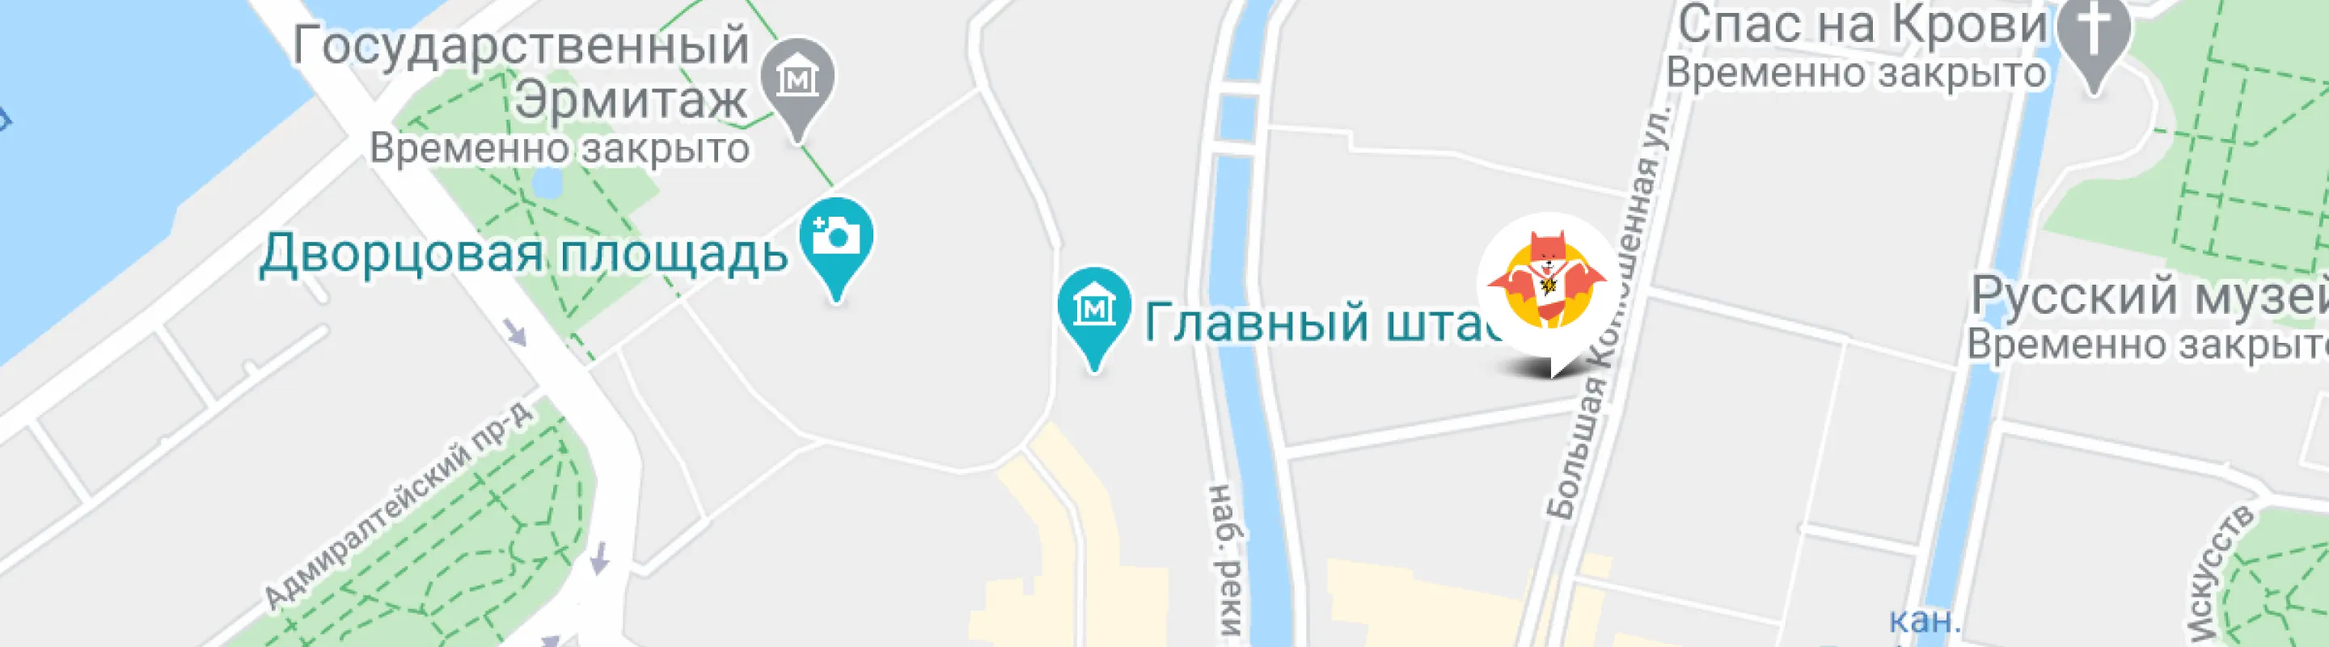
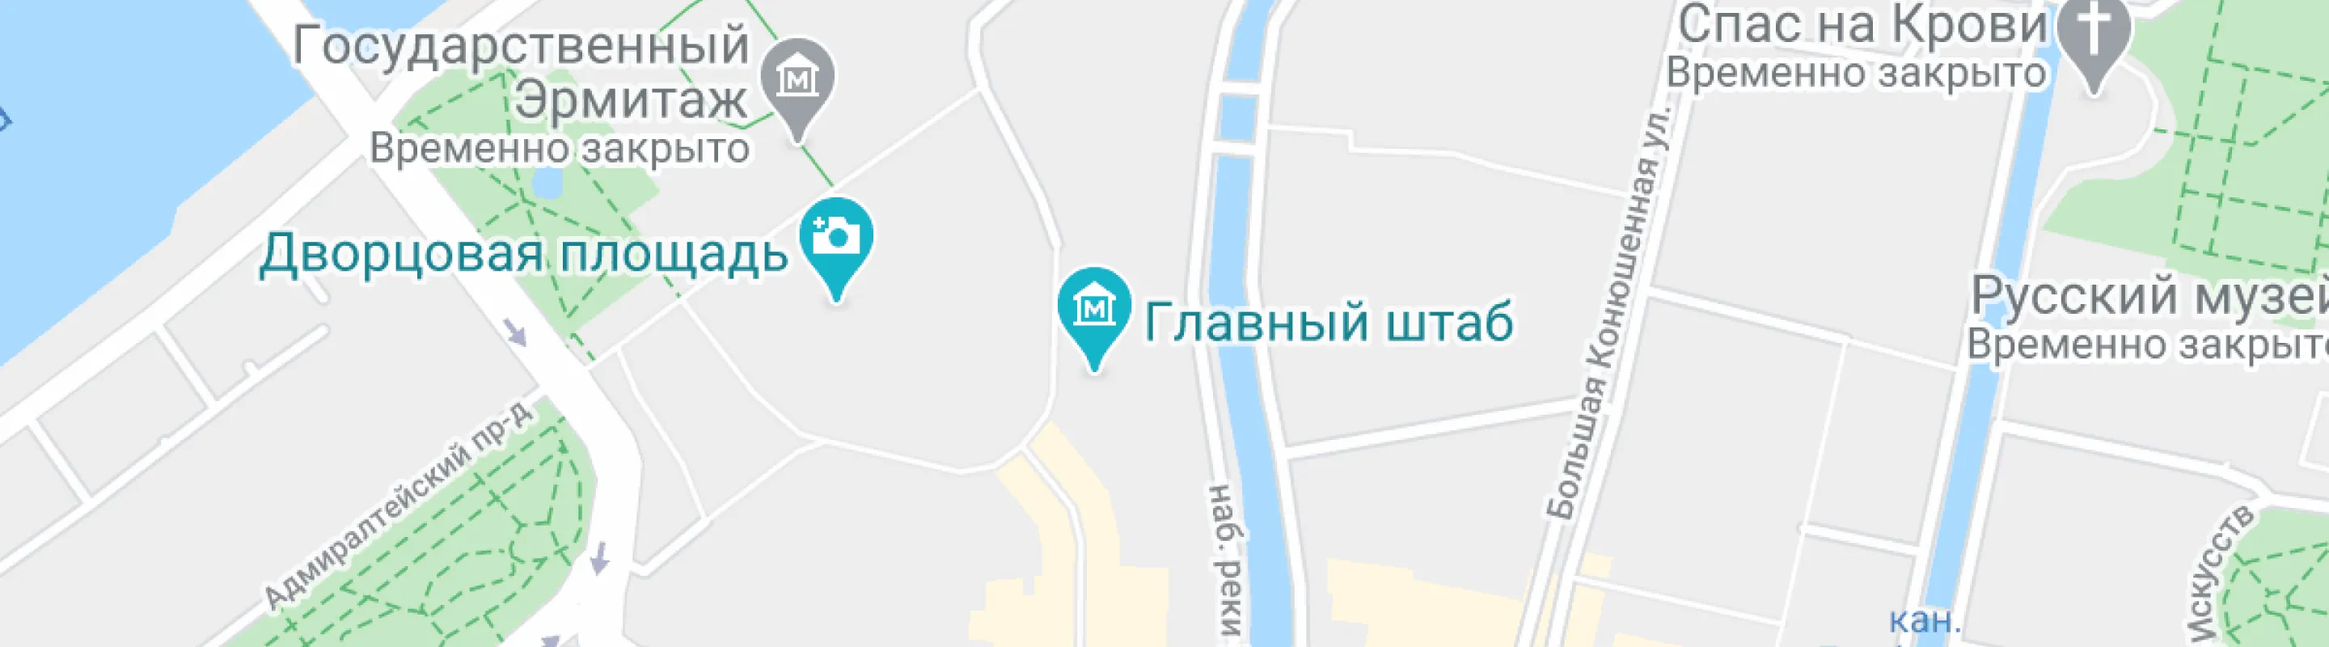
Улучшает производительность

Changed region(s): [[0.625, 0.3438, 0.7188, 0.5938]]

diff --git a/source/catalog.html b/source/catalog.html
@@ -5,6 +5,8 @@
   <meta charset="UTF-8">
   <title>CatEnergy. Функциональное питание для котов.</title>
   <meta name="viewport" content="width=device-width,initial-scale=1">
+  <link rel="preload" href="fonts/Lato-Regular.woff2" as="font" crossorigin="anonymous">
+  <link rel="preload" href="fonts/Oswald-Regular.woff2" as="font" crossorigin="anonymous">
   <link rel="stylesheet" href="styles/styles.css">
   <link rel="icon" href="favicon.ico">
   <link rel="icon" href="favicons/icon.svg" type="image/svg+xml">
@@ -16,7 +18,7 @@
 <body class="page-catalog__body body">
   <div class="body__wrapper">
     <header class="body__header body__header--catalog header">
-      <div class="header__logo-wrapper">
+      <div class="header__logo-wrapper header__logo-wrapper--catalog">
         <a class="header__logo header__logo--catalog logo logo--image" href="index.html">
           <picture>
             <source media="(min-width: 1440px)" width="70" height="59" type="image/svg+xml" srcset="images/logo-desktop.svg">
@@ -58,8 +60,11 @@
               <h2 class="card__title">
                 <a class="card__link" href="#">Cat Energy PRO 500 г</a>
               </h2>
-              <a class="card__image-link" href="#">
+              <a class="card__image-link" href="#" tabindex="-1">
                 <picture>
+                  <source media="(min-width: 1440px)" width="169" height="210" type="image/webp" srcset="images/catalog-chiken-500-desktop@1x.webp 1x, images/catalog-chiken-500-desktop@2x.webp 2x">
+                  <source media="(min-width: 768px)" width="161" height="172" type="image/webp" srcset="images/catalog-chiken-500-tablet@1x.webp 1x, images/catalog-chiken-500-tablet@2x.webp 2x">
+                  <source width="68" height="86" type="image/webp" srcset="images/catalog-chiken-500-mobile@1x.webp 1x, images/catalog-chiken-500-mobile@2x.webp 2x">
                   <source media="(min-width: 1440px)" width="169" height="210" type="image/png" srcset="images/catalog-chiken-500-desktop@1x.png 1x, images/catalog-chiken-500-desktop@2x.png 2x">
                   <source media="(min-width: 768px)" width="161" height="172" type="image/png" srcset="images/catalog-chiken-500-tablet@1x.png 1x, images/catalog-chiken-500-tablet@2x.png 2x">
                   <img class="card__image card__image--small" src="images/catalog-chiken-500-mobile@1x.png" srcset="images/catalog-chiken-500-mobile@2x.png" width="68" height="86" alt="Корм для котов со вкусом курицы 500 грамм">
@@ -85,8 +90,11 @@
               <h2 class="card__title">
                 <a class="card__link" href="#">Cat Energy PRO 1000 г</a>
               </h2>
-              <a class="card__image-link card__image-link--pro" href="#">
+              <a class="card__image-link card__image-link--pro" href="#" tabindex="-1">
                 <picture>
+                  <source media="(min-width: 1440px)" width="172" height="196" type="image/webp" srcset="images/catalog-chiken-1000-desktop@1x.webp 1x, images/catalog-chiken-1000-desktop@2x.webp 2x">
+                  <source media="(min-width: 768px)" width="168" height="206" type="image/webp" srcset="images/catalog-chiken-1000-tablet@1x.webp 1x, images/catalog-chiken-1000-tablet@2x.webp 2x">
+                  <source width="84" height="100" type="image/webp" srcset="images/catalog-chiken-1000-mobile@1x.webp 1x, images/catalog-chiken-1000-mobile@2x.webp 2x">
                   <source media="(min-width: 1440px)" width="172" height="196" type="image/png" srcset="images/catalog-chiken-1000-desktop@1x.png 1x, images/catalog-chiken-1000-desktop@2x.png 2x">
                   <source media="(min-width: 768px)" width="168" height="206" type="image/png" srcset="images/catalog-chiken-1000-tablet@1x.png 1x, images/catalog-chiken-1000-tablet@2x.png 2x">
                   <img class="card__image" src="images/catalog-chiken-1000-mobile@1x.png" srcset="images/catalog-chiken-1000-mobile@2x.png" width="84" height="100" alt="Корм для котов со вкусом курицы 1000 грамм">
@@ -112,8 +120,11 @@
               <h2 class="card__title">
                 <a class="card__link" href="#">Cat Energy PRO 500 г</a>
               </h2>
-              <a class="card__image-link" href="#">
+              <a class="card__image-link" href="#" tabindex="-1">
                 <picture>
+                  <source media="(min-width: 1440px)" width="169" height="210" type="image/webp" srcset="images/catalog-fish-500-desktop@1x.webp 1x, images/catalog-fish-500-desktop@2x.webp 2x">
+                  <source media="(min-width: 768px)" width="163" height="174" type="image/webp" srcset="images/catalog-fish-500-tablet@1x.webp 1x, images/catalog-fish-500-tablet@2x.webp 2x">
+                  <source width="68" height="86" type="image/webp" srcset="images/catalog-fish-500-mobile@1x.webp 1x, images/catalog-fish-500-mobile@2x.webp 2x">
                   <source media="(min-width: 1440px)" width="169" height="210" type="image/png" srcset="images/catalog-fish-500-desktop@1x.png 1x, images/catalog-fish-500-desktop@2x.png 2x">
                   <source media="(min-width: 768px)" width="163" height="174" type="image/png" srcset="images/catalog-fish-500-tablet@1x.png 1x, images/catalog-fish-500-tablet@2x.png 2x">
                   <img class="card__image card__image--small" src="images/catalog-fish-500-mobile@1x.png" srcset="images/catalog-fish-500-mobile@2x.png" width="68" height="86" alt="Корм для котов со вкусом рыбы 500 грамм">
@@ -139,8 +150,11 @@
               <h2 class="card__title">
                 <a class="card__link" href="#">Cat Energy PRO 1000 г</a>
               </h2>
-              <a class="card__image-link" href="#">
+              <a class="card__image-link" href="#" tabindex="-1">
                 <picture>
+                  <source media="(min-width: 1440px)" width="172" height="196" type="image/webp" srcset="images/catalog-fish-1000-desktop@1x.webp 1x, images/catalog-fish-1000-desktop@2x.webp 2x">
+                  <source media="(min-width: 768px)" width="168" height="206" type="image/webp" srcset="images/catalog-fish-1000-tablet@1x.webp 1x, images/catalog-fish-1000-tablet@2x.webp 2x">
+                  <source width="84" height="100" type="image/webp" srcset="images/catalog-fish-1000-mobile@1x.webp 1x, images/catalog-fish-1000-mobile@2x.webp 2x">
                   <source media="(min-width: 1440px)" width="172" height="196" type="image/png" srcset="images/catalog-fish-1000-desktop@1x.png 1x, images/catalog-fish-1000-desktop@2x.png 2x">
                   <source media="(min-width: 768px)" width="168" height="206" type="image/png" srcset="images/catalog-fish-1000-tablet@1x.png 1x, images/catalog-fish-1000-tablet@2x.png 2x">
                   <img class="card__image" src="images/catalog-fish-1000-mobile@1x.png" srcset="images/catalog-fish-1000-mobile@2x.png" width="84" height="100" alt="Корм для котов со вкусом рыбы 1000 грамм">
@@ -166,8 +180,11 @@
               <h2 class="card__title">
                 <a class="card__link" href="#">Cat Energy Slim 500 г</a>
               </h2>
-              <a class="card__image-link" href="#">
+              <a class="card__image-link" href="#" tabindex="-1">
                 <picture>
+                  <source media="(min-width: 1440px)" width="169" height="210" type="image/webp" srcset="images/catalog-buckwheat-500-desktop@1x.webp 1x, images/catalog-buckwheat-500-desktop@2x.webp 2x">
+                  <source media="(min-width: 768px)" width="161" height="171" type="image/webp" srcset="images/catalog-buckwheat-500-tablet@1x.webp 1x, images/catalog-buckwheat-500-tablet@2x.webp 2x">
+                  <source width="68" height="86" type="image/webp" srcset="images/catalog-buckwheat-500-mobile@1x.webp 1x, images/catalog-buckwheat-500-mobile@2x.webp 2x">
                   <source media="(min-width: 1440px)" width="169" height="210" type="image/png" srcset="images/catalog-buckwheat-500-desktop@1x.png 1x, images/catalog-buckwheat-500-desktop@2x.png 2x">
                   <source media="(min-width: 768px)" width="161" height="171" type="image/png" srcset="images/catalog-buckwheat-500-tablet@1x.png 1x, images/catalog-buckwheat-500-tablet@2x.png 2x">
                   <img class="card__image card__image--small" src="images/catalog-buckwheat-500-mobile@1x.png" srcset="images/catalog-buckwheat-500-mobile@2x.png" width="68" height="86" alt="Корм для котов со вкусом гречки 500 грамм">
@@ -193,8 +210,11 @@
               <h2 class="card__title">
                 <a class="card__link" href="#">Cat Energy Slim 1000 г</a>
               </h2>
-              <a class="card__image-link" href="#">
+              <a class="card__image-link" href="#" tabindex="-1">
                 <picture>
+                  <source media="(min-width: 1440px)" width="172" height="196" type="image/webp" srcset="images/catalog-buckwheat-1000-desktop@1x.webp 1x, images/catalog-buckwheat-1000-desktop@2x.webp 2x">
+                  <source media="(min-width: 768px)" width="168" height="206" type="image/webp" srcset="images/catalog-buckwheat-1000-tablet@1x.webp 1x, images/catalog-buckwheat-1000-tablet@2x.webp 2x">
+                  <source width="84" height="100" type="image/webp" srcset="images/catalog-buckwheat-1000-mobile@1x.webp 1x, images/catalog-buckwheat-1000-mobile@2x.webp 2x">
                   <source media="(min-width: 1440px)" width="172" height="196" type="image/png" srcset="images/catalog-buckwheat-1000-desktop@1x.png 1x, images/catalog-buckwheat-1000-desktop@2x.png 2x">
                   <source media="(min-width: 768px)" width="168" height="206" type="image/png" srcset="images/catalog-buckwheat-1000-tablet@1x.png 1x, images/catalog-buckwheat-1000-tablet@2x.png 2x">
                   <img class="card__image" src="images/catalog-buckwheat-1000-mobile@1x.png" srcset="images/catalog-buckwheat-1000-mobile@2x.png" width="84" height="100" alt="Корм для котов со вкусом гречки 1000 грамм">
@@ -220,8 +240,11 @@
               <h2 class="card__title">
                 <a class="card__link" href="#">Cat Energy Slim 500 г</a>
               </h2>
-              <a class="card__image-link" href="#">
+              <a class="card__image-link" href="#" tabindex="-1">
                 <picture>
+                  <source media="(min-width: 1440px)" width="169" height="210" type="image/webp" srcset="images/catalog-rice-500-desktop@1x.webp 1x, images/catalog-rice-500-desktop@2x.webp 2x">
+                  <source media="(min-width: 768px)" width="163" height="174" type="image/webp" srcset="images/catalog-rice-500-tablet@1x.webp 1x, images/catalog-rice-500-tablet@2x.webp 2x">
+                  <source width="68" height="86" type="image/webp" srcset="images/catalog-rice-500-mobile@1x.webp 1x, images/catalog-rice-500-mobile@2x.webp 2x">
                   <source media="(min-width: 1440px)" width="169" height="210" type="image/png" srcset="images/catalog-rice-500-desktop@1x.png 1x, images/catalog-rice-500-desktop@2x.png 2x">
                   <source media="(min-width: 768px)" width="163" height="174" type="image/png" srcset="images/catalog-rice-500-tablet@1x.png 1x, images/catalog-rice-500-tablet@2x.png 2x">
                   <img class="card__image card__image--small" src="images/catalog-rice-500-mobile@1x.png" srcset="images/catalog-rice-500-mobile@2x.png" width="68" height="86" alt="Корм для котов со вкусом риса 500 грамм">
@@ -244,7 +267,9 @@
               <button class="card__button button button--accent" type="submit">Заказать</button>
             </li>
             <li class="cards-list__item cards-list__item--more more-products">
-              <h3 class="more-products__title">Показать еще 100500 товаров</h3>
+              <h3 class="more-products__title">
+                <a class="more-products__title-link" href="#" tabindex="-1">Показать еще 100500 товаров</a>
+              </h3>
               <p class="more-products__description">На самом деле вкусов гораздо больше!</p>
               <a class="more-products__link button button--secondary" href="#">Показать все</a>
             </li>
@@ -342,6 +367,9 @@
         </div>
         <div class="contacts__map-wrapper">
           <picture>
+            <source media="(min-width: 1440px)" width="1440" height="400" type="image/webp" srcset="images/map-desktop@1x.webp 1x, images/map-desktop@2x.webp 2x">
+            <source media="(min-width: 768px)" width="768" height="400" type="image/webp" srcset="images/map-tablet@1x.webp 1x, images/map-tablet@2x.webp 2x">
+            <source width="320" height="362" type="image/webp" srcset="images/map-mobile@1x.webp 1x, images/map-mobile@2x.webp 2x">
             <source media="(min-width: 1440px)" width="1440" height="400" type="image/png" srcset="images/map-desktop@1x.png 1x, images/map-desktop@2x.png 2x">
             <source media="(min-width: 768px)" width="768" height="400" type="image/png" srcset="images/map-tablet@1x.png 1x, images/map-tablet@2x.png 2x">
             <img class="contacts__image" src="images/map-mobile@1x.png" srcset="images/map-mobile@2x.png" width="320" height="362" alt="Карта проезда к офису компании Кэт Энерджи">

diff --git a/source/index.html b/source/index.html
@@ -5,6 +5,8 @@
   <meta charset="UTF-8">
   <title>CatEnergy. Функциональное питание для котов.</title>
   <meta name="viewport" content="width=device-width,initial-scale=1">
+  <link rel="preload" href="fonts/Lato-Regular.woff2" as="font" crossorigin="anonymous">
+  <link rel="preload" href="fonts/Oswald-Regular.woff2" as="font" crossorigin="anonymous">
   <link rel="stylesheet" href="styles/styles.css">
   <link rel="icon" href="favicon.ico">
   <link rel="icon" href="favicons/icon.svg" type="image/svg+xml">
@@ -56,6 +58,9 @@
           <p class="promo__slogan">Занялся собой? Займись котом!</p>
           <div class="promo__picture">
             <picture>
+              <source media="(min-width: 1440px)" width="552" height="499" type="image/webp" srcset="images/index-hero-desktop@1x.webp 1x, images/index-hero-desktop@2x.webp 2x">
+              <source media="(min-width: 768px)" width="709" height="609" type="image/webp" srcset="images/index-hero-tablet@1x.webp 1x, images/index-hero-tablet@2x.webp 2x">
+              <source width="280" height="270" type="image/webp" srcset="images/index-hero-mobile@1x.webp 1x, images/index-hero-mobile@2x.webp 2x">
               <source media="(min-width: 1440px)" width="552" height="499" type="image/png" srcset="images/index-hero-desktop@1x.png 1x, images/index-hero-desktop@2x.png 2x">
               <source media="(min-width: 768px)" width="709" height="609" type="image/png" srcset="images/index-hero-tablet@1x.png 1x, images/index-hero-tablet@2x.png 2x">
               <img src="images/index-hero-mobile@1x.png" srcset="images/index-hero-mobile@2x.png 2x" width="280" height="270" alt="Корм для котов со вкусом курицы">
@@ -125,11 +130,17 @@
           <div class="example__slider-wrapper">
             <div class="example__image-wrapper">
               <picture>
+                <source media="(min-width: 1440px)" width="560" height="512" type="image/webp" srcset="images/catfat-desktop@1x.webp 1x, images/catfat-desktop@2x.webp 2x">
+                <source media="(min-width: 768px)" width="560" height="512" type="image/webp" srcset="images/catfat-tablet@1x.webp 1x, images/catfat-tablet@2x.webp 2x">
+                <source width="280" height="256" type="image/webp" srcset="images/catfat-mobile@1x.webp 1x, images/catfat-mobile@2x.webp 2x">
                 <source media="(min-width: 1440px)" width="560" height="512" type="image/png" srcset="images/catfat-desktop@1x.png 1x, images/catfat-desktop@2x.png 2x">
                 <source media="(min-width: 768px)" width="560" height="512" type="image/png" srcset="images/catfat-tablet@1x.png 1x, images/catfat-tablet@2x.png 2x">
                 <img class="example__image-fat" src="images/catfat-mobile@1x.png" srcset="images/catfat-mobile@2x.png" width="280" height="256" alt="Вид кота до употребления специального питания">
               </picture>
               <picture>
+                <source media="(min-width: 1440px)" width="560" height="512" type="image/webp" srcset="images/catthin-desctop@1x.webp, images/catthin-desctop@2x.webp 2x">
+                <source media="(min-width: 768px)" width="560" height="512" type="image/webp" srcset="images/catthin-tablet@1x.webp 1x, images/catthin-tablet@2x.webp 2x">
+                <source width="280" height="256" type="image/webp" srcset="images/catthin-mobile@1x.webp 1x, images/catthin-mobile@2x.webp 2x">
                 <source media="(min-width: 1440px)" width="560" height="512" type="image/png" srcset="images/catthin-desctop@1x.png 1x, images/catthin-desctop@2x.png 2x">
                 <source media="(min-width: 768px)" width="560" height="512" type="image/png" srcset="images/catthin-tablet@1x.png 1x, images/catthin-tablet@2x.png 2x">
                 <img class="example__image-thin" src="images/catthin-mobile@1x.png" srcset="images/catthin-mobile@2x.png" width="280" height="256" alt="Вид кота после употребления специального питания">
@@ -150,6 +161,9 @@
         </div>
         <div class="contacts__map-wrapper">
           <picture>
+            <source media="(min-width: 1440px)" width="1440" height="400" type="image/webp" srcset="images/map-desktop@1x.webp 1x, images/map-desktop@2x.webp 2x">
+            <source media="(min-width: 768px)" width="768" height="400" type="image/webp" srcset="images/map-tablet@1x.webp 1x, images/map-tablet@2x.webp 2x">
+            <source width="320" height="362" type="image/webp" srcset="images/map-mobile@1x.webp 1x, images/map-mobile@2x.webp 2x">
             <source media="(min-width: 1440px)" width="1440" height="400" type="image/png" srcset="images/map-desktop@1x.png 1x, images/map-desktop@2x.png 2x">
             <source media="(min-width: 768px)" width="768" height="400" type="image/png" srcset="images/map-tablet@1x.png 1x, images/map-tablet@2x.png 2x">
             <img class="contacts__image" src="images/map-mobile@1x.png" srcset="images/map-mobile@2x.png" width="320" height="362" alt="Карта проезда к офису компании Кэт Энерджи">
@@ -160,7 +174,7 @@
       </section>
     </main>
     <footer class="body__footer footer">
-      <div class="footer__wrapper">
+      <div class="footer__wrapper footer__wrapper--tablet">
         <a class="footer__logo-title logo" href="#">
           <img class="logo__description logo__description--footer" src="images/logo-text-mobile.svg" width="128" height="24" alt="Надпись Cat Energy">
         </a>

diff --git a/source/styles/blocks/main.scss b/source/styles/blocks/main.scss
@@ -29,7 +29,7 @@
     position: absolute;
     width: 57px;
     height: 53px;
-    background-image: url("../../images/map-pin@1x.png");
+    background-image: image-set("../images/map-pin@2x.webp" 2x type("image/webp"), "../images/map-pin@1x.webp" 1x type("image/webp"), "../images/map-pin@2x.png" 2x type("image/png"), "../images/map-pin@1x.png" 1x type("image/png"));
     background-repeat: no-repeat;
     background-position: 50% 50%;
     background-size: 57px 53px;
@@ -57,7 +57,7 @@
     &::after {
       width: 113px;
       height: 106px;
-      background-image: url("../../images/map-pin-tablet@1x.png");
+      background-image: image-set("../images/map-pin-tablet@2x.webp" 2x type("image/webp"), "../images/map-pin-tablet@1x.webp" 1x type("image/webp"), "../images/map-pin-tablet@2x.png" 2x type("image/png"), "../images/map-pin-tablet@1x.png" 1x type("image/png"));
       background-size: 113px 106px;
       bottom: 26%;
       left: 43.2%;

diff --git a/source/styles/blocks/header.scss b/source/styles/blocks/header.scss
@@ -8,18 +8,22 @@
 @media (max-width: 767px) {
   .header__logo-wrapper {
     padding-top: 12px;
+    padding-bottom: 3px;
+  }
+
+  .header__logo-wrapper--catalog {
     padding-bottom: 0;
   }
 
   .header__logo {
-    margin-top: 5px;
+    margin-top: 2px;
     margin-right: 56px;
     padding-bottom: 12px;
   }
 
   .header__logo-title {
-    margin-top: 5px;
-    margin-right: 65px;
+    margin-top: -3px;
+    margin-right: 66px;
     padding-bottom: 12px;
   }
 
@@ -28,6 +32,7 @@
   }
 
   .header__logo-title--catalog {
+    margin-top: 8px;
     margin-right: 66px;
   }
 }

diff --git a/source/styles/blocks/footer.scss b/source/styles/blocks/footer.scss
@@ -7,7 +7,7 @@
 .footer__logo-title {
   margin: 0;
   padding: 0;
-  padding-top: 30px;
+  padding-top: 41px;
   padding-bottom: 19px;
   display: flex;
   justify-content: center;
@@ -60,12 +60,17 @@
   .footer__wrapper {
     gap: 16.7%;
     margin: 0 auto;
-    padding: 55px 3.91%;
+    padding: 52px 3.91% 55px;
     align-items: center;
+  }
+
+  .footer__wrapper--tablet {
+    padding-top: 55px;
   }
 
   .footer__logo-title {
     margin: 0;
+    margin-top: -5px;
     margin-right: 35px;
     padding: 0;
   }

diff --git a/source/styles/blocks/card.scss b/source/styles/blocks/card.scss
@@ -16,6 +16,16 @@
   text-transform: uppercase;
   grid-column: 2 / 3;
   grid-row: 1 / 2;
+
+  &:hover,
+  &:focus,
+  &:focus-visible {
+    opacity: 0.6;
+  }
+
+  &:active {
+    opacity: 0.3;
+  }
 }
 
 .card__image-link {
@@ -108,6 +118,14 @@
     order: -1;
     padding: 0;
     align-self: center;
+
+    &:hover {
+      opacity: 0.8;
+    }
+
+    &:active {
+      opacity: 0.6;
+    }
   }
 
   .card__description {

diff --git a/source/styles/blocks/more-products.scss b/source/styles/blocks/more-products.scss
@@ -21,11 +21,24 @@
   align-self: center;
 }
 
-.more-products__link {
+.more-products__link,
+.more-products__title-link {
   text-align: center;
   text-decoration: none;
   color: var(--color-base, #fa8072);
   margin-top: 13px;
+}
+
+.more-products__title-link {
+  &:hover,
+  &:focus,
+  &:focus-visible {
+    opacity: 0.6;
+  }
+
+  &:active {
+    opacity: 0.3;
+  }
 }
 
 @media (min-width: 768px) {

diff --git a/source/styles/blocks/subscribe-form.scss b/source/styles/blocks/subscribe-form.scss
@@ -15,8 +15,9 @@
   line-height: 1.48;
   color: inherit;
   text-transform: uppercase;
-  margin-bottom: 22px;
+  margin-bottom: 18px;
   padding: 11px;
+  border: 1px solid #e7e7e7;
   box-sizing: border-box;
 
   &:hover {
@@ -32,6 +33,7 @@
   font-size: 20px;
   line-height: 1.3;
   width: 100%;
+  padding: 15px 26px;
 }
 
 @media (min-width: 768px) {

diff --git a/source/styles/blocks/button-burger.scss b/source/styles/blocks/button-burger.scss
@@ -3,7 +3,7 @@
   mask-repeat: no-repeat;
   mask-position: 50% 50%;
   cursor: pointer;
-  border: none;
+  border: transparent;
   width: 24px;
   height: 24px;
   padding: 0;

diff --git a/source/styles/blocks/main-navigation.scss b/source/styles/blocks/main-navigation.scss
@@ -105,6 +105,11 @@
   }
 
   .main-navigation__list {
+    margin-right: 10px;
+  }
+
+  .main-navigation__list--catalog {
+    margin: 0;
     margin-right: 5px;
   }
 }

diff --git a/source/styles/blocks/option-item.scss b/source/styles/blocks/option-item.scss
@@ -42,7 +42,8 @@
   }
 }
 
-.option-item__link:hover::after {
+.option-item__link:hover::after,
+.option-item__link:focus::after {
   transform: scaleX(1.35);
 }
 

diff --git a/source/styles/blocks/subscribe.scss b/source/styles/blocks/subscribe.scss
@@ -1,6 +1,6 @@
 .subscribe__wrapper {
   margin: 0 auto;
-  padding: 30px 6.25% 40px;
+  padding: 30px 6.25% 35px;
   display: flex;
   flex-direction: column;
 }
